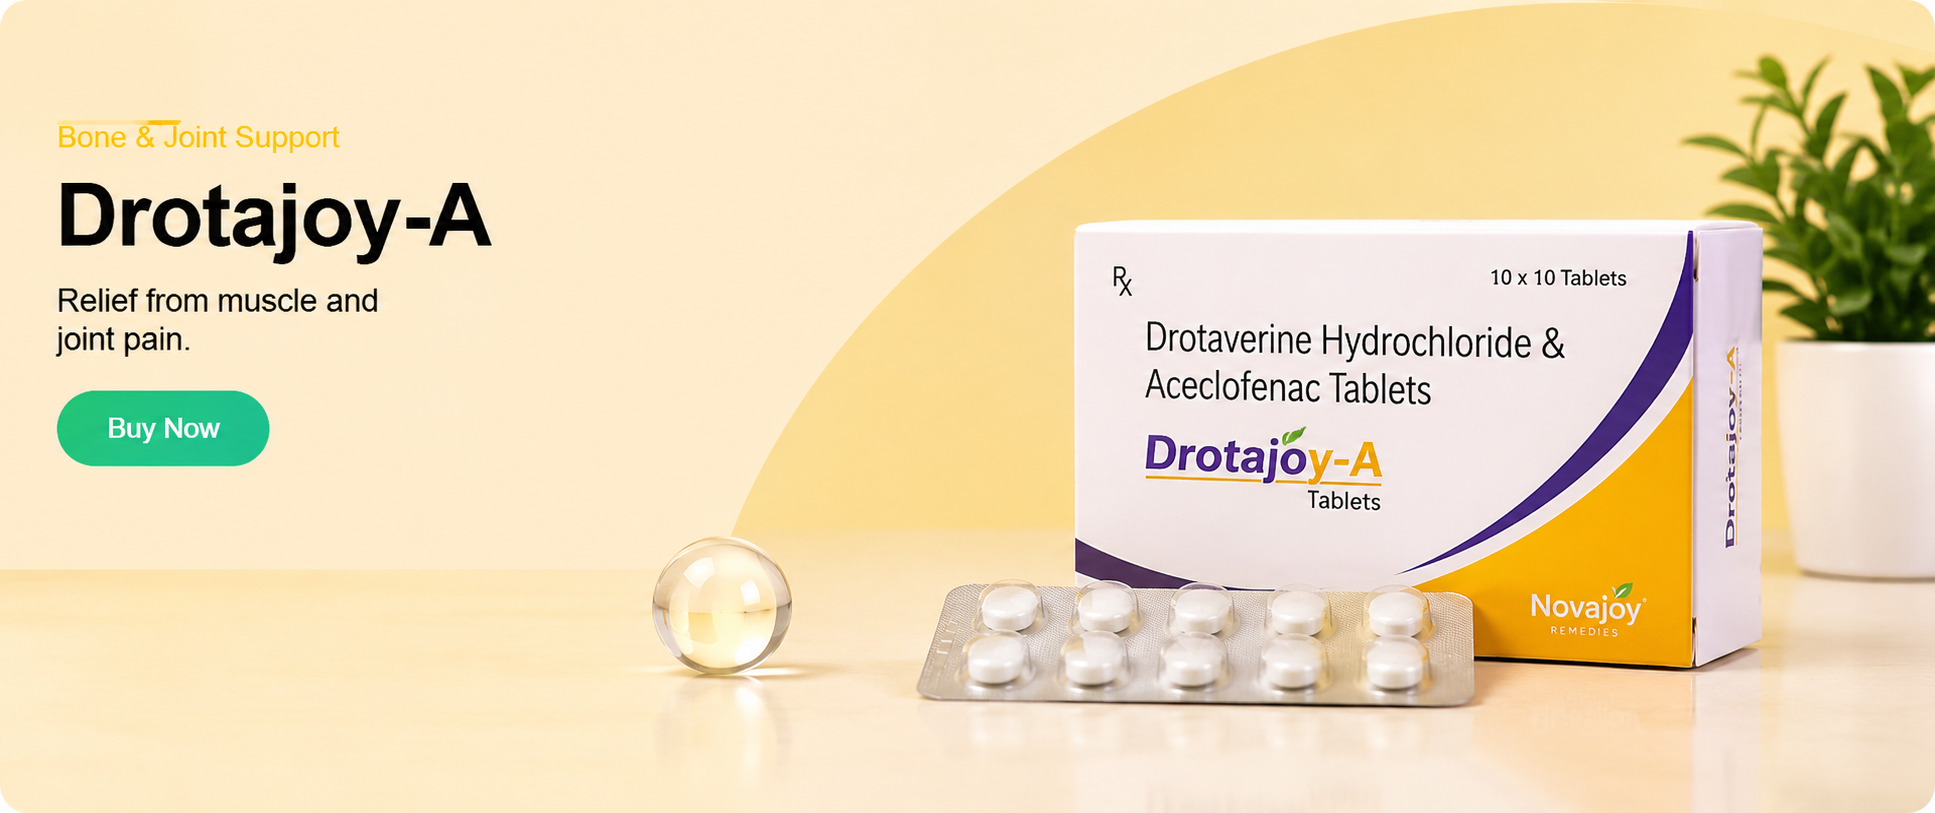
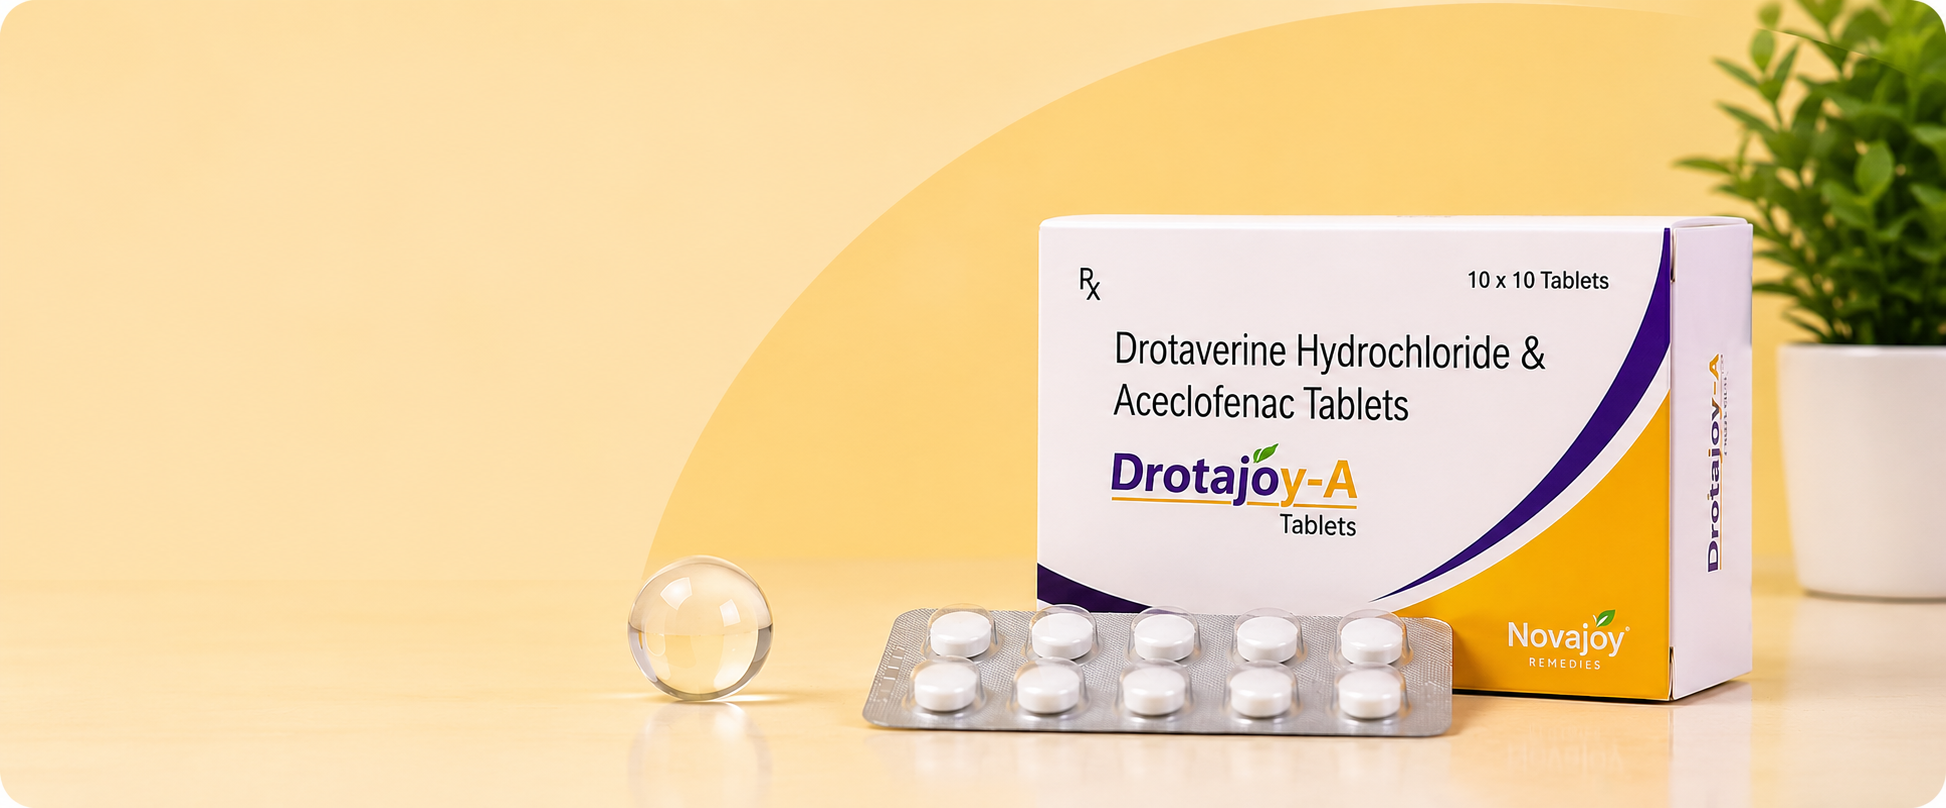
final push

diff --git a/src/pages/Home.jsx b/src/pages/Home.jsx
@@ -304,7 +304,7 @@ const Home = () => {
 
                 {/* 🔷 CATEGORY TABS */}
                 <div className="category-tabs">
-                    {["Gastrointestinal", "Pain Management",  "Wellness"].map((cat) => (
+                    {["Gastrointestinal", "Pain Management", "Wellness"].map((cat) => (
                         <button
                             key={cat}
                             className={activeCategory === cat ? "active" : ""}
@@ -390,12 +390,33 @@ const Home = () => {
                     <div className="banner-card small">
                         <img src={banner2} alt="banner" />
 
+                        <div className="overlay">
+                            <span className="tagline">Daily Wellness</span>
+
+                            <h3>Refanoy 400</h3>
+
+                            <p>
+                                Antibiotic for effective gut infection relief.
+                            </p>
+
+                            <button>Buy Now</button>
+                        </div>
                     </div>
 
                     <div className="banner-card small">
                         <img src={banner3} alt="banner" />
 
-                        
+                        <div className="overlay">
+                            <span className="tagline">Bone & Joint Support</span>
+
+                            <h3>Drotajoy-A</h3>
+
+                            <p>
+                                Relief from muscle and joint pain.
+                            </p>
+
+                            <button>Buy Now</button>
+                        </div>
                     </div>
 
                 </div>
